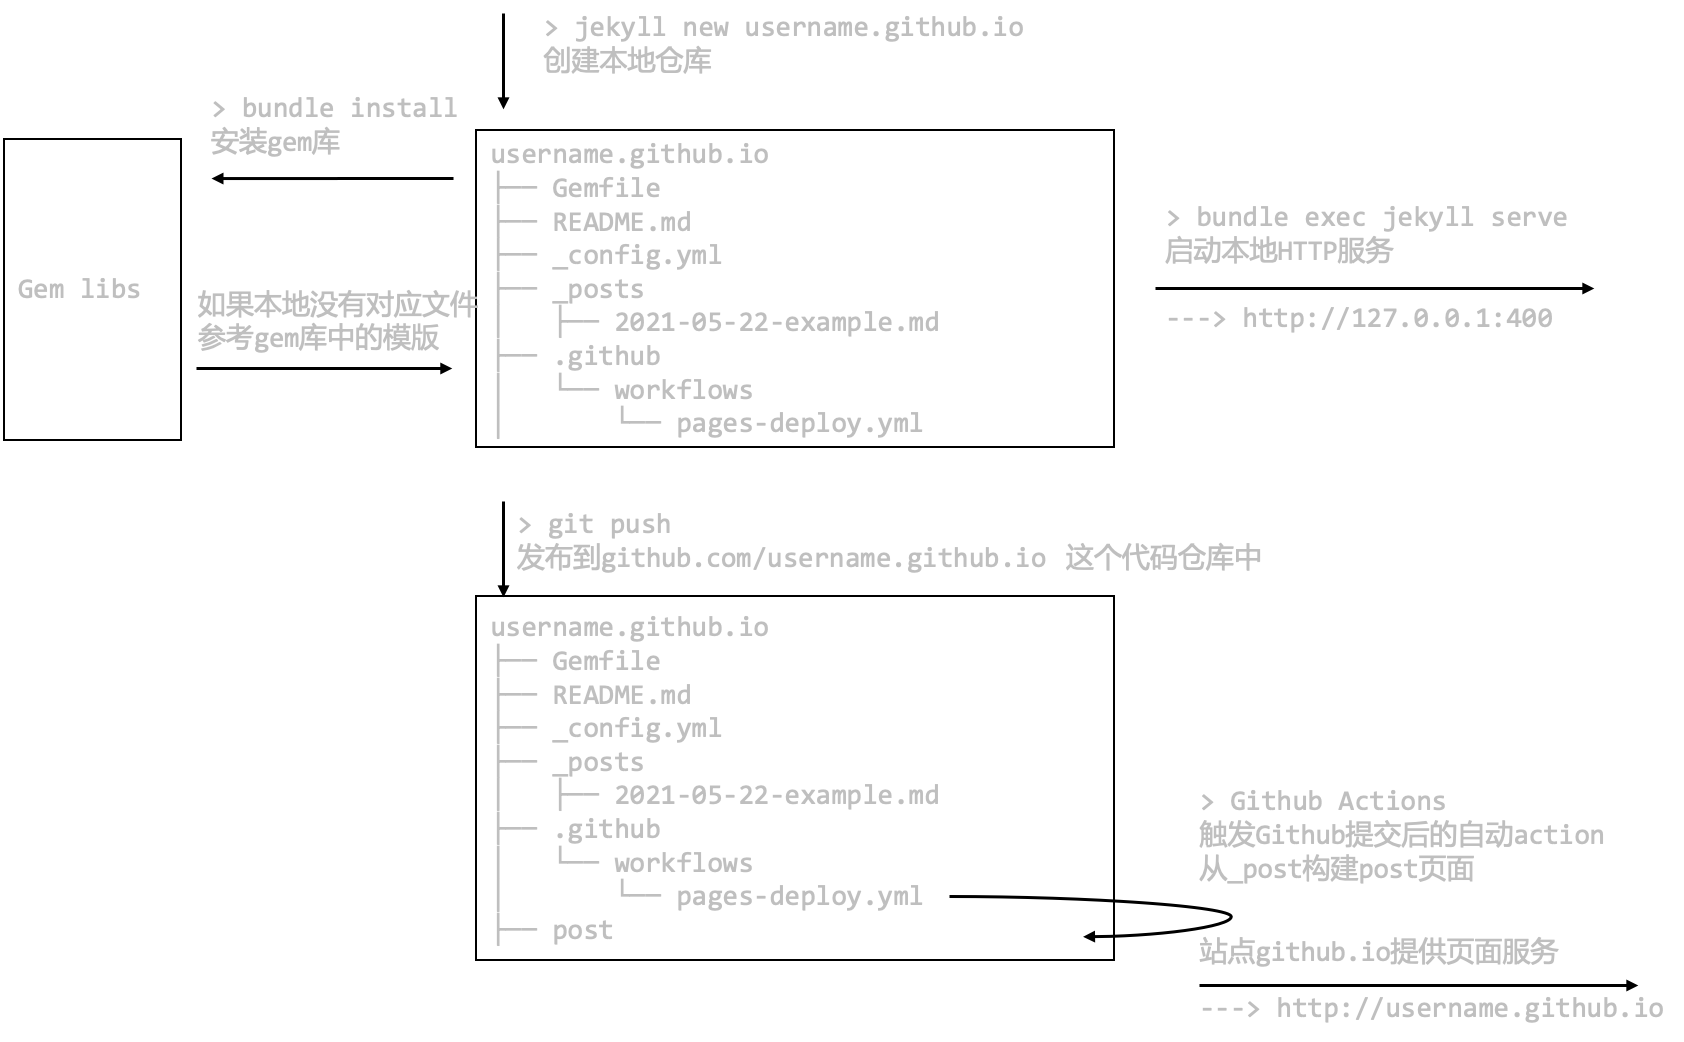
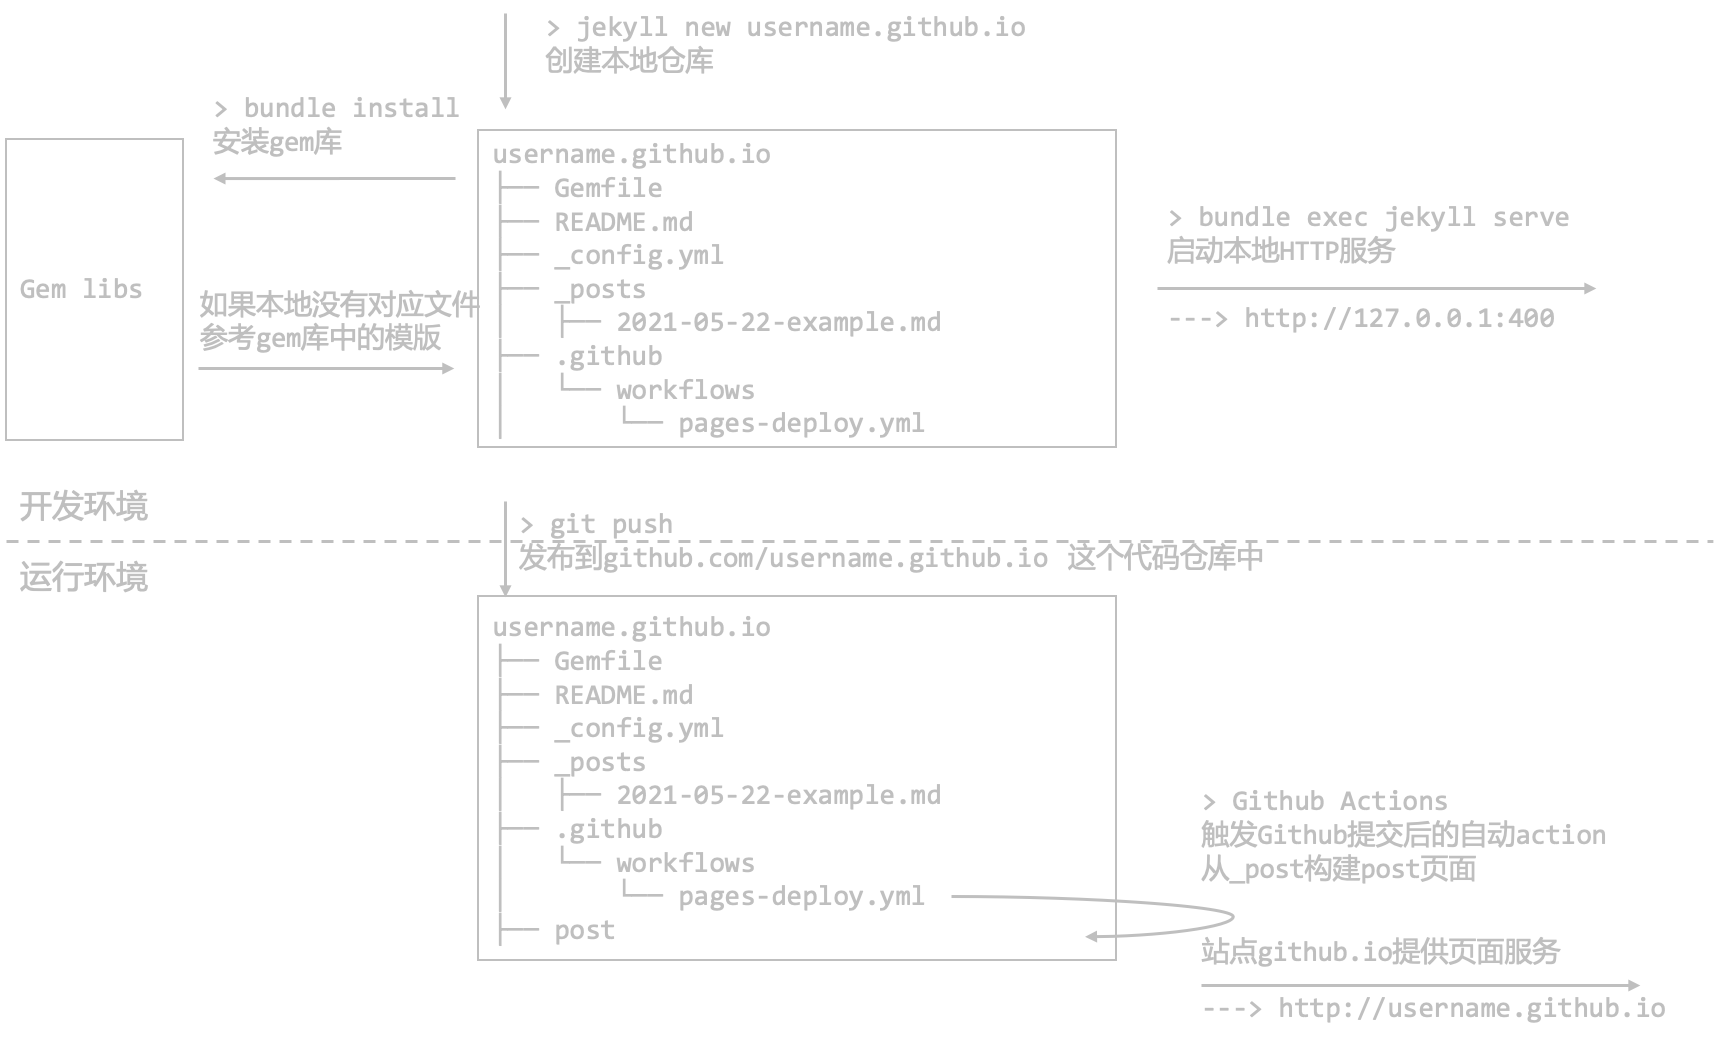
update how to build this site

diff --git a/_posts/2021-05-23-how-to-build-this-site.md b/_posts/2021-05-23-how-to-build-this-site.md
@@ -1,12 +1,36 @@
-# 运行环境
-
-
+# 开发运行环境
 
 ![](/assets/img/2021-05-23-how-to-build-this-site.png)
 
+开发环境中：
 
+- 使用`jekyll new username.github.io` 来创建工程
 
-# 格式支持
+- 使用`bundle install` 来根据`Gemfile`安装gem库
+
+- 使用`jekyll serve` 作为HTTP服务器来启动项目
+
+  > 工程可以引用gem库的模版，也可以直接将模版拷贝到对应的工程文件中
+
+运行环境中：
+
+- 通过Github Action，在每次代码提交之后，自动调用`page_deploy.yaml` 将`_posts`中的markdown文件转化为`posts`中的HTML文件，来发布。
+- 通过`http://username.github.io` 来发布站点
+
+# 详细步骤
+
+详细步骤请参考 [Jekyll 官网教程](https://jekyllrb.com/) , [jekyll-theme-chirpy模版](https://github.com/cotes2020/jekyll-theme-chirpy) 和[gitpage](https://pages.github.com/)相关说明。
+
+# 使用图片
+
+Powerpoint制作PNG格式图片的方法：
+
+- 全选页面上所有图片
+- 选择色彩为“中性灰”（powerpiont调色板，第一列倒数第三个灰色）
+- 右键菜单选择“导出图片”，导出为PNG。
+- 保存为`assists\img\*.png`
+
+# 不支持的格式
 
 github.io 支持markdown格式的文本和图片，但是不支持，下列格式：
 
